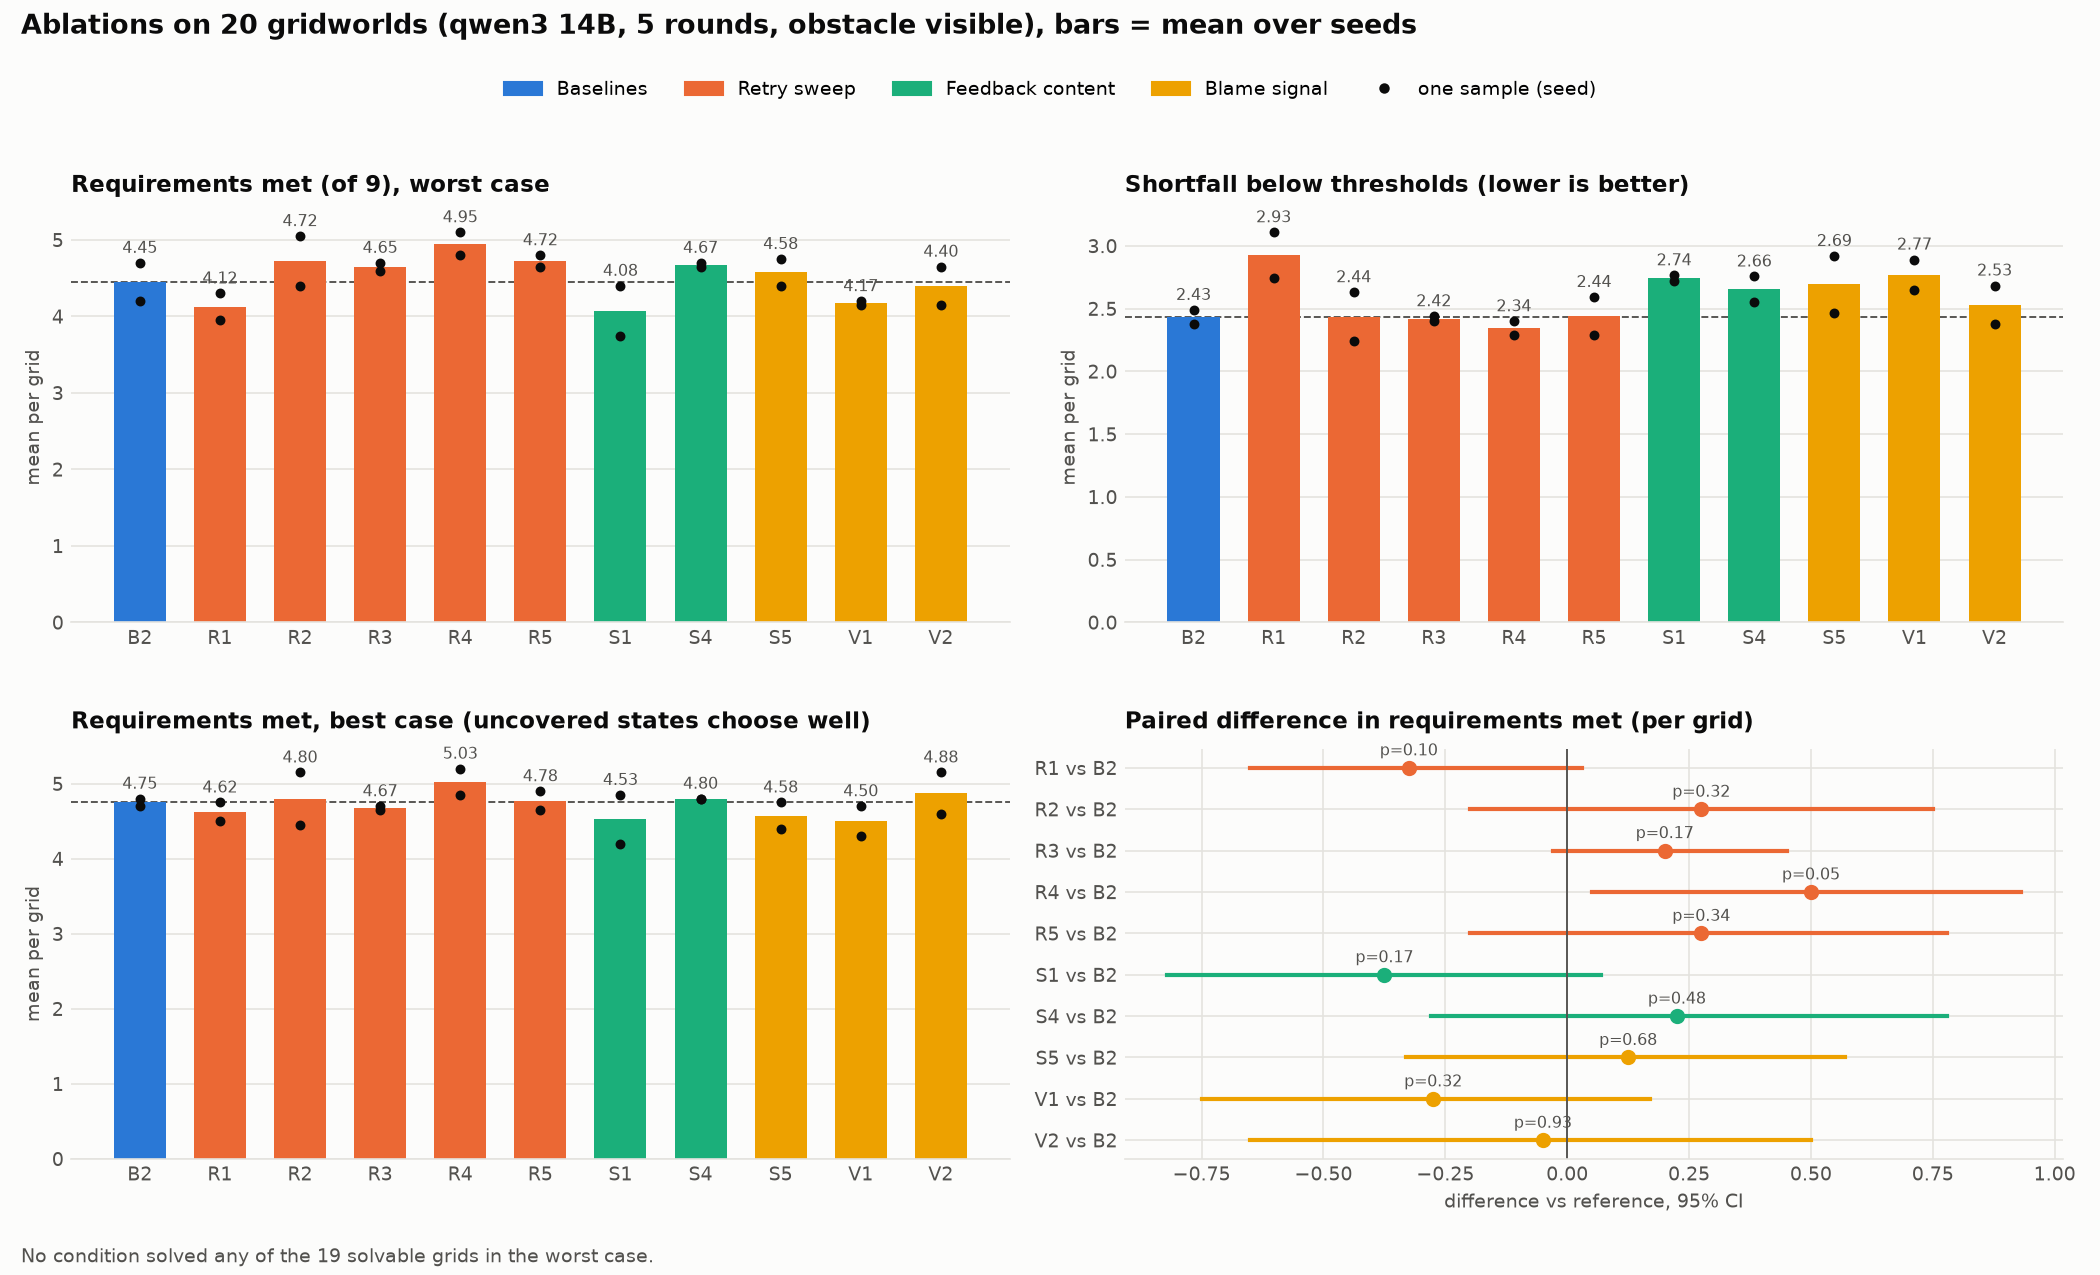
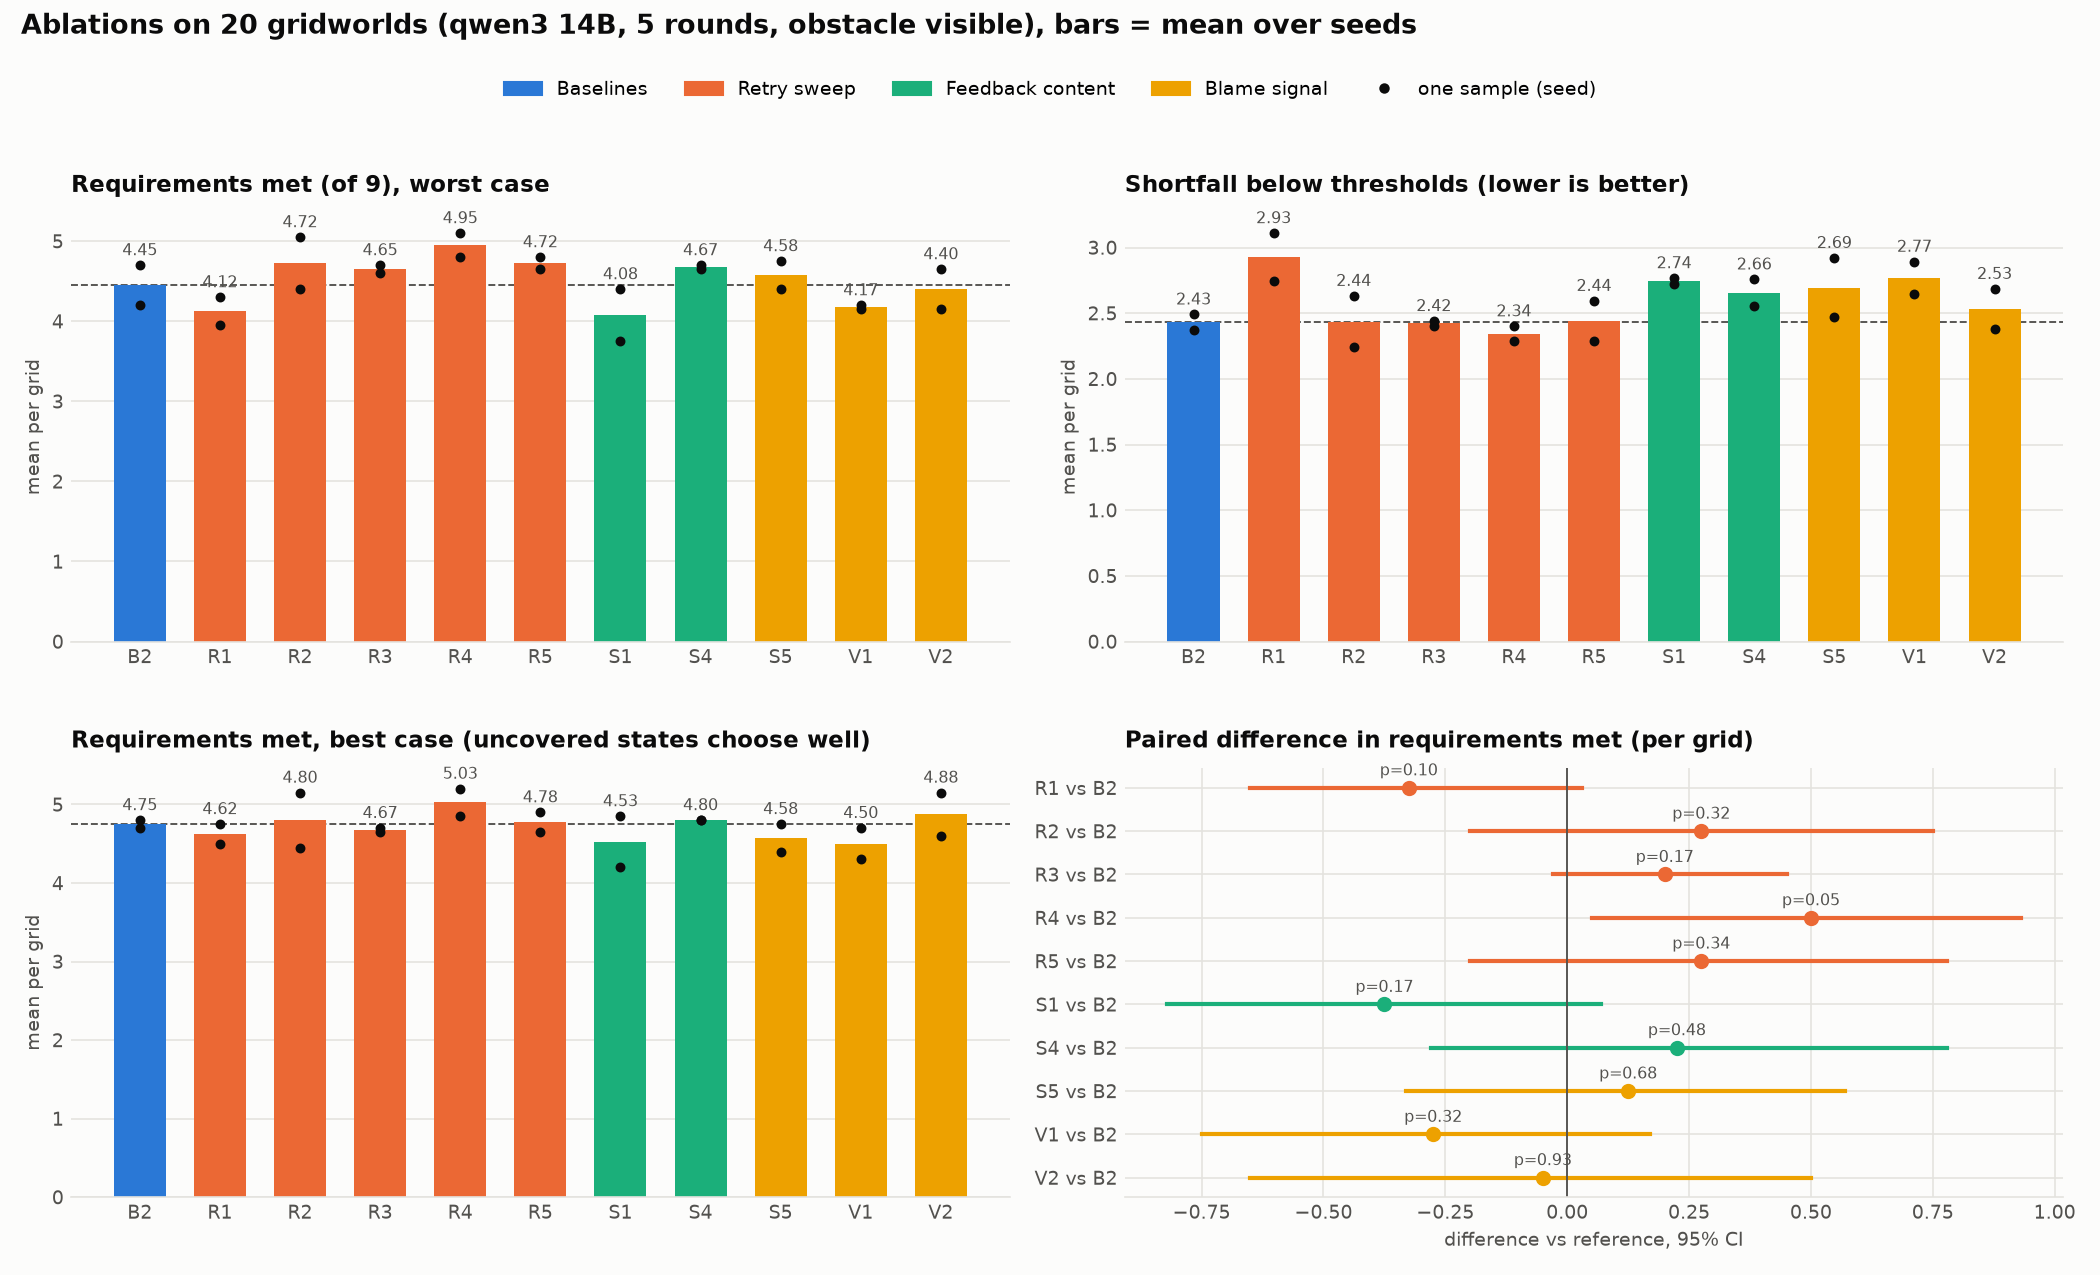
ablation_summary: drop the 'no condition solved' note

diff --git a/PRISM-Guided-Learning/viz/ablation_summary.py b/PRISM-Guided-Learning/viz/ablation_summary.py
@@ -158,16 +158,11 @@ def _bar_panel(ax, table, data, col, title, ylabel, fmt):
 
 def plot_conditions(table, data, out):
     fig, axes = plt.subplots(2, 2, figsize=(14, 8.5), facecolor=SURFACE)
-    n_solvable = len(solvable_ids())
     _bar_panel(axes[0, 0], table, data, "met", "Requirements met (of 9), worst case", "mean per grid", "{:.2f}")
     _bar_panel(axes[0, 1], table, data, "shortfall", "Shortfall below thresholds (lower is better)", "mean per grid",
                "{:.2f}")
-    solved = int(table.solved.sum())
     _bar_panel(axes[1, 0], table, data, "met_best", "Requirements met, best case (uncovered states choose well)",
                "mean per grid", "{:.2f}")
-    if not solved:
-        fig.text(0.01, 0.01, f"No condition solved any of the {n_solvable} solvable grids in the worst case.",
-                 fontsize=9, color=INK_2)
     ax = axes[1, 1]
     t = table[table.vs != ""].reset_index(drop=True)
     y = np.arange(len(t))[::-1]
@@ -189,7 +184,7 @@ def plot_conditions(table, data, out):
                bbox_to_anchor=(0.5, 0.95))
     fig.suptitle("Ablations on 20 gridworlds (qwen3 14B, 5 rounds, obstacle visible), bars = mean over seeds",
                  x=0.01, ha="left", y=0.99, fontsize=13, fontweight="bold", color=INK)
-    fig.tight_layout(rect=(0, 0.03, 1, 0.92), h_pad=3)
+    fig.tight_layout(rect=(0, 0, 1, 0.92), h_pad=3)
     fig.savefig(out, dpi=150, facecolor=SURFACE)
     plt.close(fig)
 

diff --git a/PRISM-Guided-Learning/out/results/ablations/summary/SUMMARY.md b/PRISM-Guided-Learning/out/results/ablations/summary/SUMMARY.md
@@ -1,4 +1,4 @@
-# Ablation results (auto-generated 2026-10-03 14:46)
+# Ablation results (auto-generated 2026-10-03 14:48)
 
 Gridworld, 20 grids (19 solvable), qwen3 14B, 5 rounds, obstacle phase visible to rules and legacy. Symbolic numbers are worst case. Paired tests compare per-grid means (seeds averaged) against the reference with a sign-flip permutation test; with 20 grids and 2 seeds, treat p > 0.05 as noise.
 
